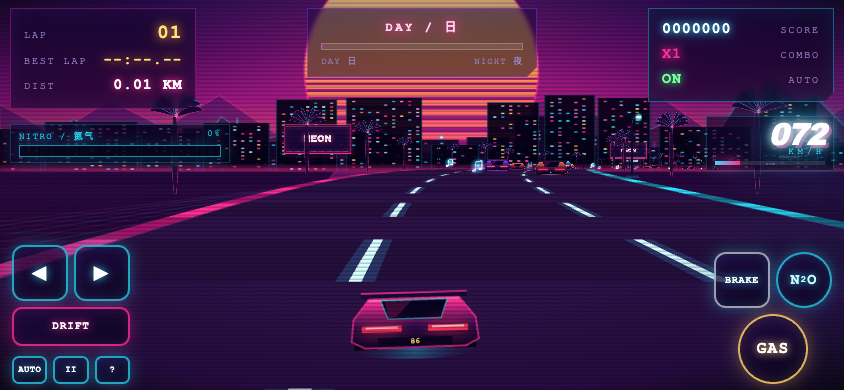
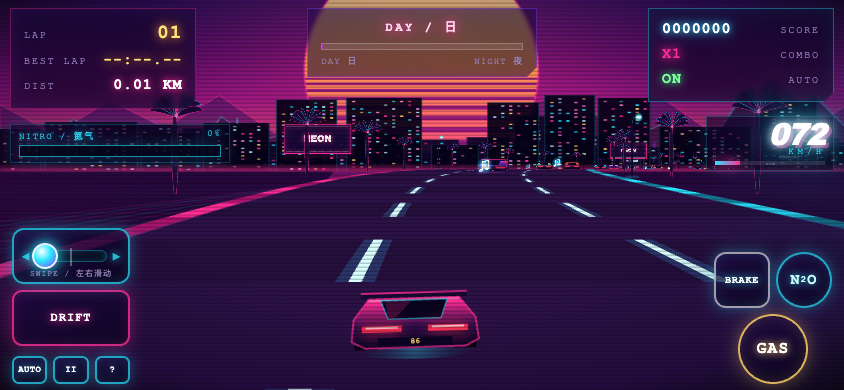
Replace left/right buttons with analog swipe steering (touch + free left-half drag)

Changed region(s): [[0.0, 0.5538, 0.154, 0.8615], [0.5237, 0.4, 0.7393, 0.4615], [0.3389, 0.9846, 0.3697, 1.0]]

diff --git a/js/game.js b/js/game.js
@@ -20,7 +20,8 @@
   function cacheDom() {
     ['cabinet', 'screen', 'hud-lap', 'hud-best', 'hud-dist', 'hud-phase', 'phase-fill',
       'hud-score', 'hud-combo', 'hud-auto', 'hud-nitro-num', 'nitro-fill', 'hud-speed',
-      'speed-fill', 'combo-toast', 'pickup-toast', 'touch', 'overlay-start', 'btn-start',
+      'speed-fill', 'combo-toast', 'pickup-toast', 'touch', 'steer-pad', 'steer-knob',
+      'overlay-start', 'btn-start',
       'overlay-pause', 'btn-resume', 'btn-restart-p', 'overlay-help', 'btn-help-close'
     ].forEach(function (id) { D[id] = $(id); });
   }
@@ -76,6 +77,8 @@
 
   var input = { gas: false, brake: false, left: false, right: false, drift: false, nitro: false };
   var held = { gas: false, brake: false, left: false, right: false, drift: false, nitro: false };
+  // 触屏滑动转向：target 为手指位移映射出的 -1..1，value 为平滑后的实际舵量
+  var swipe = { active: false, id: null, startX: 0, target: 0, value: 0 };
 
   /* ---------------- 赛道（周期函数保证首尾无缝） ---------------- */
   function hillAt(i) {
@@ -149,6 +152,7 @@
 
   /* ---------------- 重置 ---------------- */
   function resetGame() {
+    resetSwipe();
     G.position = debug.pos * TRACK;
     G.totalDistance = G.position;
     G.playerX = 0; G.speed = 0; G.speedRatio = 0;
@@ -176,15 +180,30 @@
   }
 
   /* ---------------- 输入 ---------------- */
+  function setKnob(v) {
+    if (D['steer-knob']) D['steer-knob'].style.left = (50 + clamp(v, -1, 1) * 38) + '%';
+  }
+  function resetSwipe() {
+    swipe.active = false; swipe.id = null; swipe.target = 0; swipe.value = 0;
+    if (D['steer-pad']) D['steer-pad'].classList.remove('active');
+    setKnob(0);
+  }
   function computeInput(dt) {
+    // 连续舵量：跟随手指平滑变化，松手后自动回中
+    swipe.value += (swipe.target - swipe.value) * Math.min(1, dt * 14);
+    if (!swipe.active && Math.abs(swipe.value) < .004) swipe.value = 0;
+    setKnob(swipe.value);
+
+    var keySteer = (held.right ? 1 : 0) - (held.left ? 1 : 0);
     var inp = {
       gas: held.gas, brake: held.brake,
-      steer: (held.right ? 1 : 0) - (held.left ? 1 : 0),
+      steer: (swipe.active || Math.abs(swipe.value) > 0) ? swipe.value : keySteer,
       drift: held.drift, nitro: held.nitro
     };
     if (G.auto) {
       inp.gas = true; inp.brake = false;
       inp.steer = autoSteer();
+      setKnob(inp.steer);
       var a = Math.abs(inp.steer);
       inp.drift = a > .42 && a < .85 && G.speed > MAXSPEED * .35 && G.nitro < 70;
       inp.nitro = G.nitro > 82;
@@ -305,6 +324,48 @@
       btn.addEventListener('pointerleave', up);
       btn.addEventListener('contextmenu', function (e) { e.preventDefault(); });
     });
+    bindSteerSwipe();
+  }
+
+  /* 手指按住左右拖动转向：滑动条上可拖，触屏下屏幕左半区空白处也能直接滑 */
+  function bindSteerSwipe() {
+    var pad = D['steer-pad'];
+    if (!pad) return;
+    var coarse = D.cabinet.classList.contains('touch-on');
+
+    function blocked(t) {
+      return !!(t && t.closest && t.closest('[data-key], .panel-screen, .neon-btn'));
+    }
+    function down(e) {
+      if (swipe.active) return;
+      var onPad = pad.contains(e.target);
+      var freeZone = coarse && e.clientX < global.innerWidth * .58 && !blocked(e.target);
+      if (!onPad && !freeZone) return;
+      if (blocked(e.target)) return;
+      swipe.active = true;
+      swipe.id = e.pointerId;
+      swipe.startX = e.clientX;
+      swipe.target = 0;                 // 按下瞬间不转向，避免误触
+      pad.classList.add('active');
+      if (e.cancelable) e.preventDefault();
+    }
+    function move(e) {
+      if (!swipe.active || e.pointerId !== swipe.id) return;
+      var span = Math.max(56, global.innerWidth * .16);   // 滑动约 1/6 屏宽即满舵
+      swipe.target = clamp((e.clientX - swipe.startX) / span, -1, 1);
+      if (e.cancelable) e.preventDefault();
+    }
+    function up(e) {
+      if (!swipe.active) return;
+      if (e && e.pointerId !== undefined && e.pointerId !== swipe.id) return;
+      swipe.active = false; swipe.id = null; swipe.target = 0;
+      pad.classList.remove('active');
+    }
+    global.addEventListener('pointerdown', down, { passive: false });
+    global.addEventListener('pointermove', move, { passive: false });
+    global.addEventListener('pointerup', up);
+    global.addEventListener('pointercancel', up);
+    global.addEventListener('blur', up);
   }
 
   /* ---------------- 状态切换 ---------------- */
@@ -326,6 +387,7 @@
   function togglePause() {
     if (!G.started || G.helpOpen) return;
     G.paused = !G.paused;
+    if (G.paused) resetSwipe();      // 暂停时释放转向，避免恢复后仍在打舵
     D['overlay-pause'].classList.toggle('hidden', !G.paused);
     global.AUDIO.setPaused(G.paused);
     global.AUDIO.sfx('ui');
@@ -599,5 +661,5 @@
   else boot();
 
   // 供调试 / 自动化验证使用
-  global.NEON = { G: G, debug: debug, start: startGame, reset: resetGame, CFG: CFG };
+  global.NEON = { G: G, debug: debug, start: startGame, reset: resetGame, CFG: CFG, swipe: swipe };
 })(window);

diff --git a/css/style.css b/css/style.css
@@ -19,7 +19,7 @@ body{color:var(--text);font-family:var(--font-mono);user-select:none;-webkit-use
 button{font-family:inherit;cursor:pointer}
 
 #cabinet{position:fixed;inset:0;overflow:hidden;background:var(--ink)}
-#screen{position:absolute;inset:0;width:100%;height:100%;display:block}
+#screen{position:absolute;inset:0;width:100%;height:100%;display:block;touch-action:none}
 
 /* ---------- CRT 扫描线 / 暗角 ---------- */
 #crt{position:absolute;inset:0;pointer-events:none;z-index:20;overflow:hidden}
@@ -158,8 +158,8 @@ button{font-family:inherit;cursor:pointer}
 /* 触屏实际尺寸：统一按 --tb 走，跨列键例外 */
 .touch-left .tbtn,.touch-right .tbtn{width:var(--tb);height:var(--tb);font-size:13px}
 .touch-left .tbtn-sm{font-size:24px}
-.touch-left .tbtn-drift{grid-column:1/-1;width:100%;height:calc(var(--tb)*.7);
-  font-size:11px;border-radius:10px;border-color:rgba(255,45,149,.8);
+.touch-left .tbtn-drift{grid-column:1/-1;width:100%;height:var(--tb);
+  font-size:12px;border-radius:10px;border-color:rgba(255,45,149,.8);
   box-shadow:0 0 14px rgba(255,45,149,.35),inset 0 0 12px rgba(255,45,149,.14);
   text-shadow:0 0 8px var(--mag)}
 .touch-right .tbtn-nitro{border-radius:50%;font-size:15px;color:#c9fbff}
@@ -170,6 +170,34 @@ button{font-family:inherit;cursor:pointer}
   text-shadow:0 0 8px #ffd166}
 .tbtn-mini{width:100%;height:var(--tmini);font-size:10px;border-radius:7px;letter-spacing:.04em}
 sub{font-size:.6em}
+
+/* ---------- 滑动转向条：按住左右拖动，松手回中 ---------- */
+.steer-pad{grid-column:1/-1;width:100%;height:var(--tb);
+  position:relative;display:flex;align-items:center;gap:6px;padding:0 8px;
+  pointer-events:auto;touch-action:none;cursor:ew-resize;
+  border:2px solid rgba(40,231,255,.7);border-radius:12px;
+  background:linear-gradient(160deg,rgba(26,6,62,.8),rgba(6,2,26,.8));
+  box-shadow:0 0 14px rgba(40,231,255,.35),inset 0 0 12px rgba(40,231,255,.14);
+  -webkit-user-select:none;user-select:none}
+.steer-pad.active{border-color:var(--mag);
+  box-shadow:0 0 22px var(--mag),inset 0 0 16px rgba(255,45,149,.35)}
+.steer-end{flex:none;font-size:12px;color:var(--cyan);opacity:.8;
+  text-shadow:0 0 8px var(--cyan)}
+.steer-track{position:relative;flex:1;height:12px;border-radius:6px;
+  background:rgba(3,8,26,.85);border:1px solid rgba(40,231,255,.35);
+  box-shadow:inset 0 0 8px rgba(40,231,255,.2)}
+.steer-center{position:absolute;left:50%;top:-3px;width:2px;height:18px;
+  background:rgba(255,255,255,.32);transform:translateX(-50%)}
+.steer-knob{position:absolute;left:50%;top:50%;width:26px;height:26px;
+  border-radius:50%;transform:translate(-50%,-50%);
+  border:2px solid rgba(255,255,255,.85);
+  background:radial-gradient(circle at 35% 30%,#fff,#28e7ff 45%,#8a3bff 100%);
+  box-shadow:0 0 12px var(--cyan),0 0 24px rgba(40,231,255,.55)}
+.steer-pad.active .steer-knob{
+  background:radial-gradient(circle at 35% 30%,#fff,#ff2d95 45%,#8a3bff 100%);
+  box-shadow:0 0 14px var(--mag),0 0 28px rgba(255,45,149,.6)}
+.steer-hint{position:absolute;left:0;right:0;bottom:3px;text-align:center;
+  font-size:8px;letter-spacing:.12em;color:rgba(220,200,255,.62);pointer-events:none}
 
 /* ---------- 覆盖面板 ---------- */
 .panel-screen{position:absolute;inset:0;z-index:50;display:flex;align-items:center;justify-content:center;

diff --git a/index.html b/index.html
@@ -59,8 +59,16 @@
   <!-- ===================== 触屏虚拟按钮 ===================== -->
   <div id="touch" aria-label="触屏操作">
     <div class="touch-left">
-      <button class="tbtn tbtn-sm" data-key="left" aria-label="左转">◀</button>
-      <button class="tbtn tbtn-sm" data-key="right" aria-label="右转">▶</button>
+      <!-- 连续转向：按住左右拖动，松手自动回中 -->
+      <div id="steer-pad" class="steer-pad" aria-label="左右滑动转向">
+        <span class="steer-end">◀</span>
+        <div class="steer-track">
+          <span class="steer-center"></span>
+          <span id="steer-knob" class="steer-knob"></span>
+        </div>
+        <span class="steer-end">▶</span>
+        <span class="steer-hint">SWIPE / 左右滑动</span>
+      </div>
       <button class="tbtn tbtn-drift" data-key="drift">DRIFT</button>
     </div>
     <div class="touch-mini">
@@ -120,6 +128,13 @@
           <div class="help-row"><b>R</b><span>重新开始</span></div>
           <div class="help-row"><b>H</b><span>隐藏 / 显示 HUD</span></div>
           <div class="help-row"><b>?</b><span>本帮助面板</span></div>
+          <h3 style="margin-top:14px">触屏 / TOUCH</h3>
+          <div class="help-row"><b>左右滑动</b><span>按住拖动转向，松手回正</span></div>
+          <div class="help-row"><b>DRIFT</b><span>配合滑动漂移攒氮气</span></div>
+          <div class="help-row"><b>GAS / BRAKE</b><span>油门 / 刹车</span></div>
+          <div class="help-row"><b>N<sub>2</sub>O</b><span>氮气爆发</span></div>
+          <div class="help-row"><b>AUTO / II / ?</b><span>巡航 / 暂停 / 帮助</span></div>
+          <p class="help-p dim">滑动条上、或屏幕左半区空白处均可按住左右滑动；滑得越远，转向越大。</p>
         </div>
         <div>
           <h3>玩法 / RACE</h3>
